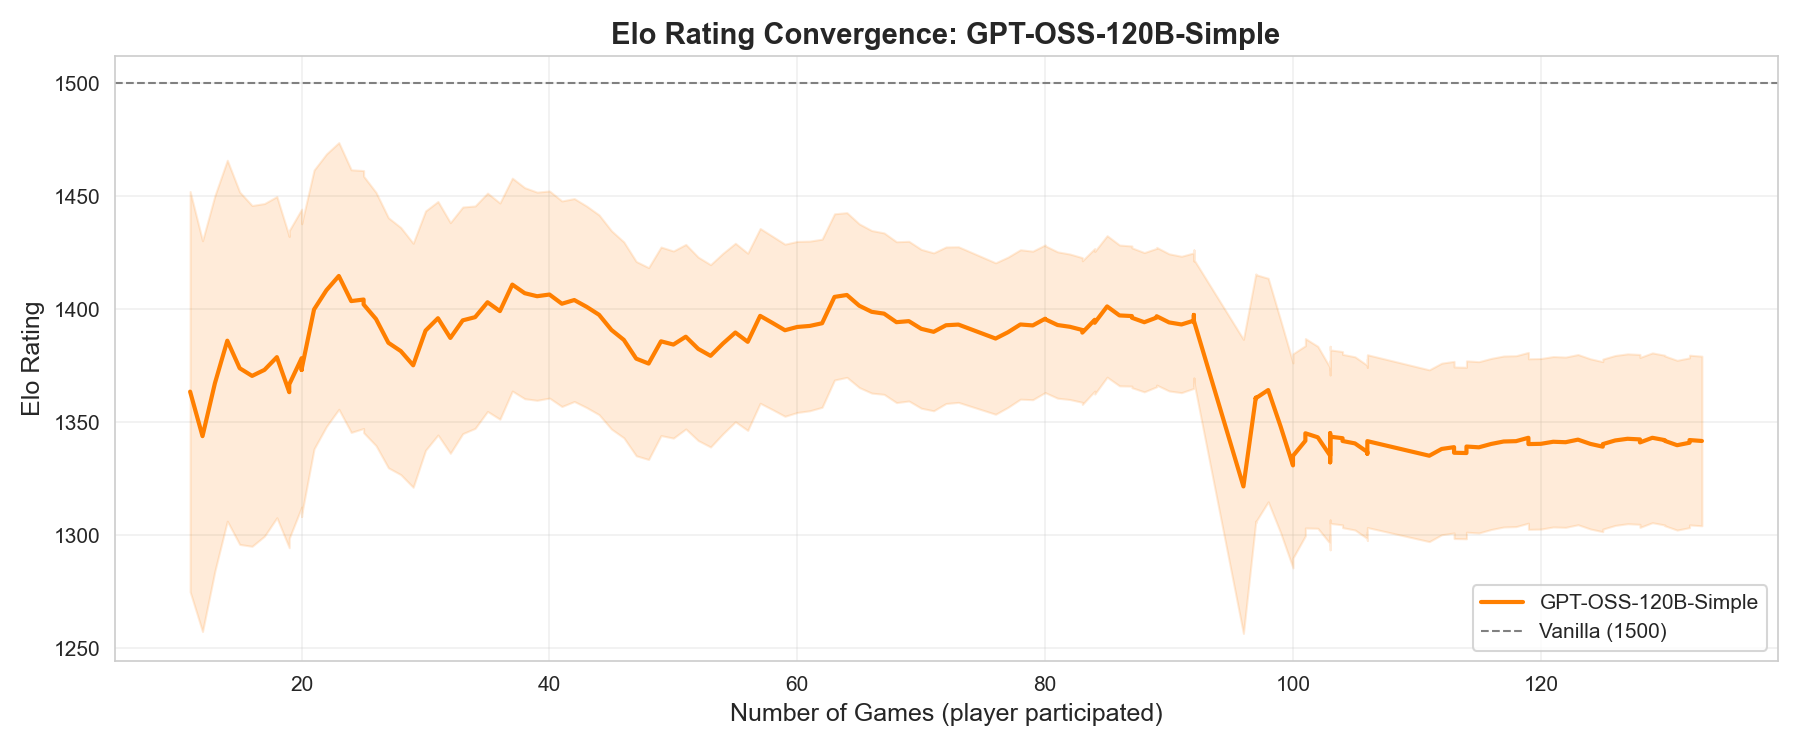
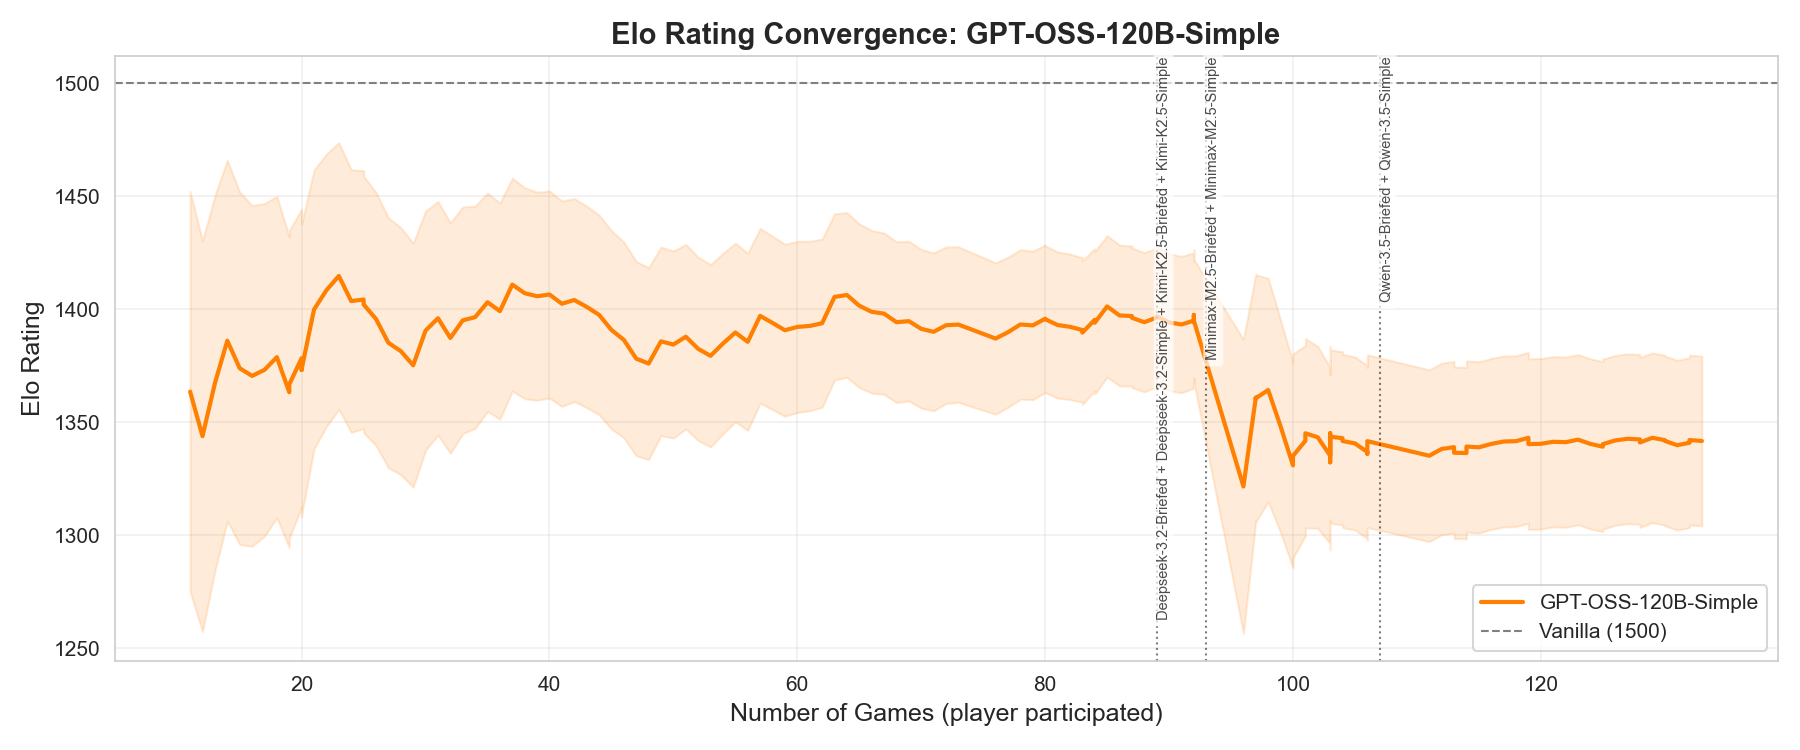
Added lines for additional opponents.

diff --git a/ratings/iterative_bt.py b/ratings/iterative_bt.py
@@ -194,7 +194,7 @@ def run_iterative_bt(strength_df, game_order, cache, min_games=3):
     Iteratively add games and compute BT ratings.
 
     Returns:
-        list of result dicts, updated cache
+        list of result dicts, updated cache, new_opponent_events
     """
     results = []
     n_total = len(game_order)
@@ -204,6 +204,10 @@ def run_iterative_bt(strength_df, game_order, cache, min_games=3):
 
     # Track cumulative game count per player type
     player_game_counts = {}
+    # Track which opponent types each player type has faced
+    opponents_seen = {}  # player_type -> set of opponent player_types
+    # Record events: list of (player_type, n_player_games, [new_opponent_names])
+    new_opponent_events = []
 
     for i in range(1, n_total + 1):
         game_id = game_order[i - 1]
@@ -211,6 +215,16 @@ def run_iterative_bt(strength_df, game_order, cache, min_games=3):
         # Update per-player-type game counts
         for pt in game_player_types.get(game_id, set()):
             player_game_counts[pt] = player_game_counts.get(pt, 0) + 1
+
+        # Detect new opponent introductions
+        pts_in_game = game_player_types.get(game_id, set())
+        for pt in pts_in_game:
+            if pt not in opponents_seen:
+                opponents_seen[pt] = set()
+            new_opps = pts_in_game - {pt} - opponents_seen[pt]
+            if new_opps:
+                opponents_seen[pt].update(new_opps)
+                new_opponent_events.append((pt, player_game_counts[pt], sorted(new_opps)))
 
         games_so_far = game_order[:i]
         subset = strength_df[strength_df['game_id'].isin(games_so_far)]
@@ -247,14 +261,14 @@ def run_iterative_bt(strength_df, game_order, cache, min_games=3):
         if i % 10 == 0 or i == n_total:
             print(f"  [{i}/{n_total}] {n_types} player types, {len(results)} total rows")
 
-    return results, cache
+    return results, cache, new_opponent_events
 
 
 # ---------------------------------------------------------------------------
 # Chart generation
 # ---------------------------------------------------------------------------
 
-def generate_charts(results_df, output_dir):
+def generate_charts(results_df, output_dir, new_opponent_events=None):
     """Generate per-player-type and combined Elo convergence charts."""
     sns.set_style('whitegrid')
 
@@ -291,6 +305,31 @@ def generate_charts(results_df, output_dir):
             color=color, alpha=0.15,
         )
         ax.axhline(1500, color='gray', linestyle='--', linewidth=1, label='Vanilla (1500)')
+
+        # Draw vertical lines where new opponents were introduced
+        if new_opponent_events:
+            # Collect events for this player type, dedup by x-position
+            pt_events = {}
+            for ev_pt, ev_x, ev_names in new_opponent_events:
+                if ev_pt == pt:
+                    if ev_x not in pt_events:
+                        pt_events[ev_x] = []
+                    pt_events[ev_x].extend(ev_names)
+            x_min = pt_data['n_player_games'].min()
+            x_max = pt_data['n_player_games'].max()
+            _, y_max = ax.get_ylim()
+            for ev_x, names in sorted(pt_events.items()):
+                if ev_x < x_min or ev_x > x_max:
+                    continue
+                unique_names = sorted(set(names))
+                label = ' + '.join(unique_names)
+                ax.axvline(ev_x, color='black', linestyle=':', linewidth=1, alpha=0.5)
+                ax.text(
+                    ev_x, y_max, f' {label}',
+                    rotation=90, va='top', ha='left',
+                    fontsize=7, color='black', alpha=0.7,
+                    bbox=dict(boxstyle='round,pad=0.2', facecolor='white', alpha=0.7, edgecolor='none'),
+                )
 
         ax.set_xlabel('Number of Games (player participated)', fontsize=12)
         ax.set_ylabel('Elo Rating', fontsize=12)
@@ -361,7 +400,7 @@ def main():
 
     # Run iterative BT
     print("Running iterative Bradley-Terry...")
-    results, cache = run_iterative_bt(strength_df, game_order, cache)
+    results, cache, new_opponent_events = run_iterative_bt(strength_df, game_order, cache)
 
     # Save cache
     if len(cache) > cached_count:
@@ -380,7 +419,7 @@ def main():
 
     # Generate charts
     print("Generating charts...")
-    generate_charts(results_df, output_dir)
+    generate_charts(results_df, output_dir, new_opponent_events)
 
     print("Done.")
 
